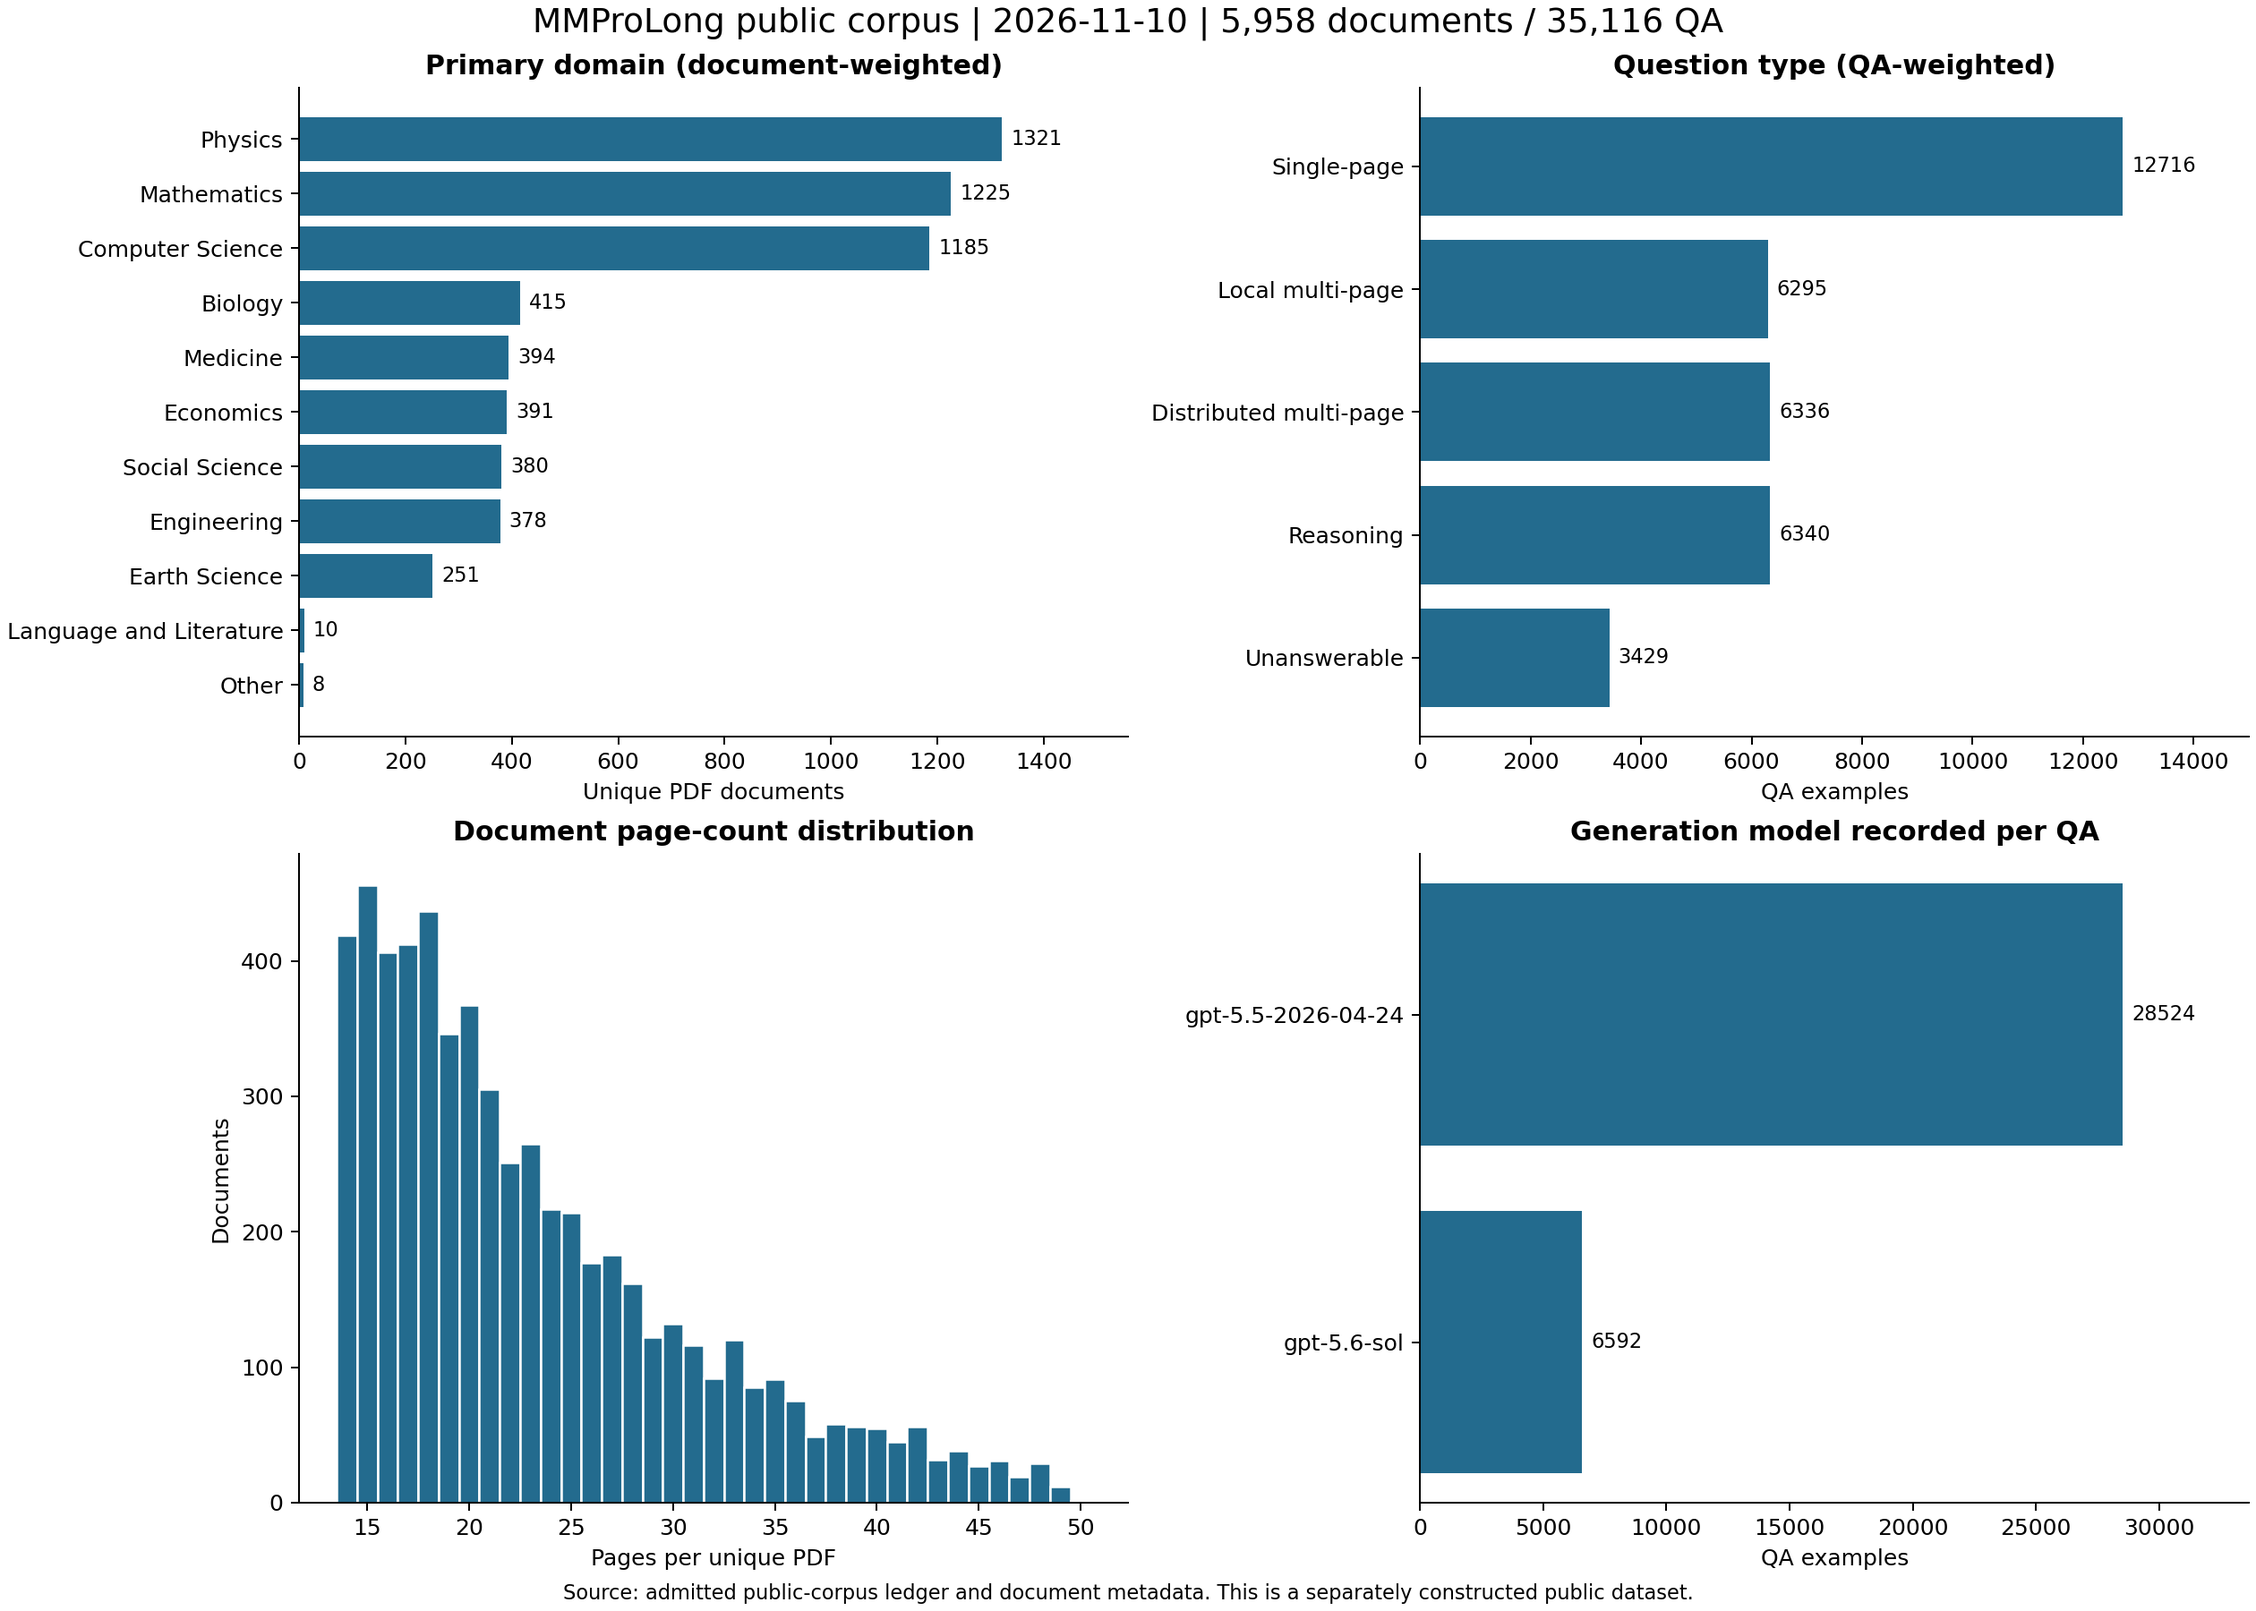
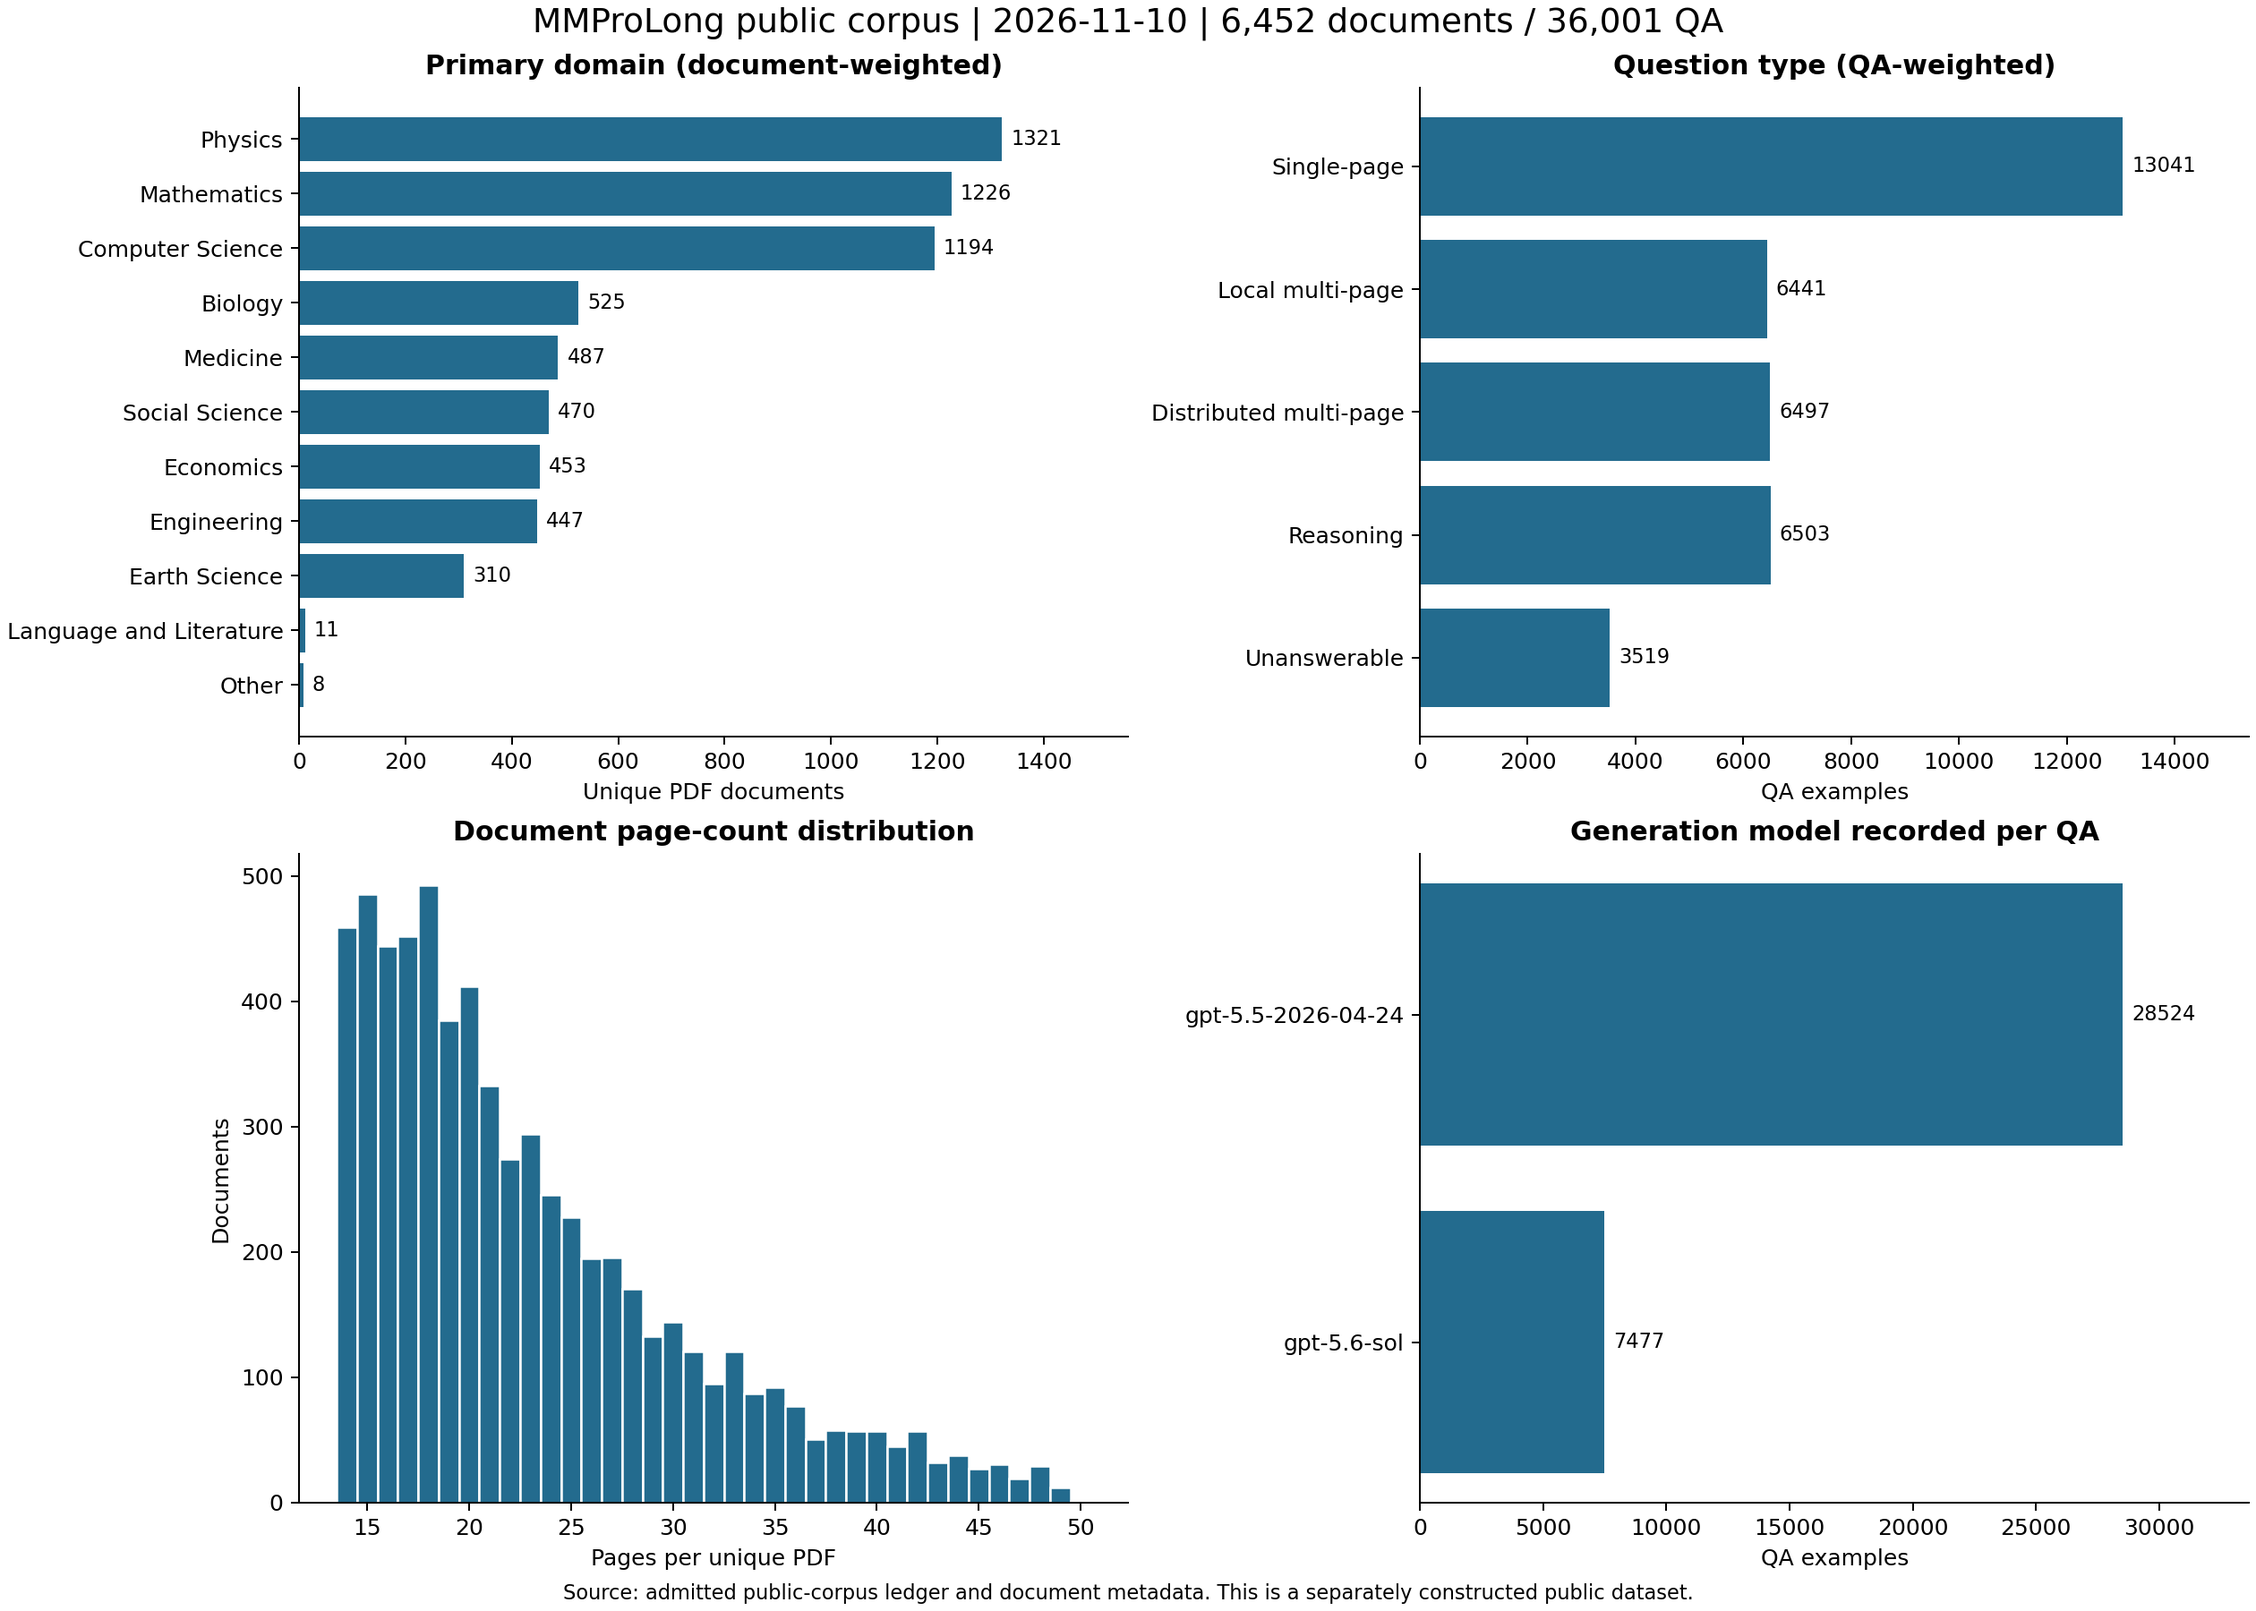
Update public corpus statistics to 2.173B measured tokens

diff --git a/docs/public_dataset.md b/docs/public_dataset.md
@@ -13,34 +13,34 @@ This page describes the admitted public snapshot identified below. It is a separ
 The manuscript defines binary prefixes (K=1024, B=2^30). Public tables use decimal K=1,000 and B=1,000,000,000; the >=100Ki statistic uses 102,400 to match the paper threshold. Exact raw counts and per-document labels are published with the dataset.
 
 <!-- PUBLIC_CORPUS_STATS_START -->
-**Public snapshot (2026-11-10): 35,116 QA examples, 5,958 source PDFs, 138,628 unique page images, and 2,126,922,250 estimated training tokens (approximately 2.127B).**
+**Public snapshot (2026-11-10): 36,001 QA examples, 6,452 source PDFs, 148,826 unique page images, and 2,173,240,659 estimated training tokens (approximately 2.173B).**
 
-[This published snapshot](https://huggingface.co/datasets/ZhaoweiWang/MMProLong-Data-Public/tree/95eb239c940a73c98132f70c6f63d94a16598ea4); [latest data](https://huggingface.co/datasets/ZhaoweiWang/MMProLong-Data-Public).
+[This published snapshot](https://huggingface.co/datasets/ZhaoweiWang/MMProLong-Data-Public/tree/17c37b6e12882da04af048143580f9ca9325c6bf); [latest data](https://huggingface.co/datasets/ZhaoweiWang/MMProLong-Data-Public).
 
 ### Corpus scale
 
 | Statistic | Public snapshot value |
 | --- | --- |
-| Admitted unique PDFs | 5,958 |
+| Admitted unique PDFs | 6,452 |
 | Document family | Public research papers |
-| Unique rendered page images | 138,628 |
-| Document pages: mean / median | 23.27 / 21 |
+| Unique rendered page images | 148,826 |
+| Document pages: mean / median | 23.07 / 21 |
 | Document pages: range / 5th-95th percentile | 14-50 / 14-40 |
-| Admitted QA examples | 35,116 |
-| Estimated training tokens | 2,126,922,250 (2.127B) |
-| Per-QA tokens: mean / median | 60.568K / 53.376K |
+| Admitted QA examples | 36,001 |
+| Estimated training tokens | 2,173,240,659 (2.173B) |
+| Per-QA tokens: mean / median | 60.366K / 53.338K |
 | Observed token range | 33,547-125,503 |
-| At least 100,000 tokens | 2,604 (7.42%) |
-| At least 100Ki = 102,400 tokens (paper threshold) | 2,188 (6.23%) |
-| Page references across all QA contexts | 837,149 |
+| At least 100,000 tokens | 2,609 (7.25%) |
+| At least 100Ki = 102,400 tokens (paper threshold) | 2,189 (6.08%) |
+| Page references across all QA contexts | 855,407 |
 
 ### Document sources
 
 | Source | Unique documents |
 | --- | --- |
 | arxiv | 4,386 |
-| elife | 17 |
-| plos | 1,555 |
+| elife | 20 |
+| plos | 2,046 |
 
 Tokens are the stored Qwen2.5-VL serialized-sample estimate, including full page-image context and QA/prompt text. A PDF used by several questions contributes its context repeatedly to the training-token total. This is not a count of unique-text tokens or billed API tokens. Page images are physically stored once per document.
 
@@ -50,12 +50,12 @@ Tokens are the stored Qwen2.5-VL serialized-sample estimate, including full page
 
 | Task | QA | Avg. pages | Avg. K tokens | B tokens | Pages | K-token range | >=100Ki |
 | --- | --- | --- | --- | --- | --- | --- | --- |
-| `single` | 12,716 | 23.72 | 60.23 | 0.766 | 14-50 | 33.80-125.13 | 6.18% |
-| `multi_local` | 6,295 | 23.87 | 60.73 | 0.382 | 14-50 | 33.85-125.50 | 6.16% |
-| `multi_distributed` | 6,336 | 23.77 | 60.44 | 0.383 | 14-50 | 33.84-125.29 | 6.23% |
-| `reasoning` | 6,340 | 23.79 | 60.41 | 0.383 | 14-50 | 33.55-125.11 | 5.95% |
-| `unanswerable` | 3,429 | 24.44 | 62.05 | 0.213 | 14-50 | 33.79-125.09 | 7.06% |
-| **Total** | 35,116 | 23.84 | 60.57 | 2.127 | 14-50 | 33.55-125.50 | 6.23% |
+| `single` | 13,041 | 23.63 | 60.02 | 0.783 | 14-50 | 33.80-125.13 | 6.03% |
+| `multi_local` | 6,441 | 23.82 | 60.60 | 0.390 | 14-50 | 33.85-125.50 | 6.04% |
+| `multi_distributed` | 6,497 | 23.70 | 60.24 | 0.391 | 14-50 | 33.84-125.29 | 6.08% |
+| `reasoning` | 6,503 | 23.70 | 60.18 | 0.391 | 14-50 | 33.55-125.11 | 5.80% |
+| `unanswerable` | 3,519 | 24.34 | 61.80 | 0.217 | 14-50 | 33.79-125.09 | 6.88% |
+| **Total** | 36,001 | 23.76 | 60.37 | 2.173 | 14-50 | 33.55-125.50 | 6.08% |
 
 `K = 1,000`, `B = 1,000,000,000`; `100Ki = 102,400` tokens. Average pages in this table are **QA-weighted**, whereas the corpus-scale document average counts each PDF once. The two multi-page rows may be combined for comparison with the paper's broader extraction category. Unanswerable QA is an additional public-data task. Exact values, quantiles, and the combined task grouping are in [`metadata/statistics.json`](https://huggingface.co/datasets/ZhaoweiWang/MMProLong-Data-Public/blob/main/metadata/statistics.json).
 
@@ -65,17 +65,17 @@ Tokens are the stored Qwen2.5-VL serialized-sample estimate, including full page
 
 | Primary domain | Documents | Document share | QA | QA share |
 | --- | --- | --- | --- | --- |
-| Physics | 1,321 | 22.17% | 9,282 | 26.43% |
-| Mathematics | 1,225 | 20.56% | 8,805 | 25.07% |
-| Computer Science | 1,185 | 19.89% | 9,040 | 25.74% |
-| Biology | 415 | 6.97% | 930 | 2.65% |
-| Medicine | 394 | 6.61% | 1,099 | 3.13% |
-| Economics | 391 | 6.56% | 1,209 | 3.44% |
-| Social Science | 380 | 6.38% | 1,182 | 3.37% |
-| Engineering | 378 | 6.34% | 2,690 | 7.66% |
-| Earth Science | 251 | 4.21% | 784 | 2.23% |
-| Language and Literature | 10 | 0.17% | 39 | 0.11% |
-| Other | 8 | 0.13% | 56 | 0.16% |
+| Physics | 1,321 | 20.47% | 9,282 | 25.78% |
+| Mathematics | 1,226 | 19.00% | 8,806 | 24.46% |
+| Computer Science | 1,194 | 18.51% | 9,055 | 25.15% |
+| Biology | 525 | 8.14% | 1,124 | 3.12% |
+| Medicine | 487 | 7.55% | 1,264 | 3.51% |
+| Social Science | 470 | 7.28% | 1,347 | 3.74% |
+| Economics | 453 | 7.02% | 1,319 | 3.66% |
+| Engineering | 447 | 6.93% | 2,815 | 7.82% |
+| Earth Science | 310 | 4.80% | 892 | 2.48% |
+| Language and Literature | 11 | 0.17% | 41 | 0.11% |
+| Other | 8 | 0.12% | 56 | 0.16% |
 
 Document and QA shares differ because historical phases generated different numbers of questions per PDF. Domain labels describe the source PDF, not a separate topic inferred for each question.
 
@@ -83,21 +83,21 @@ Document and QA shares differ because historical phases generated different numb
 
 | Answer format | QA | Share |
 | --- | --- | --- |
-| Integer | 5,306 | 15.11% |
-| Float | 1,964 | 5.59% |
-| List | 11,869 | 33.80% |
-| String | 12,548 | 35.73% |
-| Unanswerable | 3,429 | 9.76% |
+| Integer | 5,427 | 15.07% |
+| Float | 2,126 | 5.91% |
+| List | 12,205 | 33.90% |
+| String | 12,724 | 35.34% |
+| Unanswerable | 3,519 | 9.77% |
 
-There are **31,687 answerable** and **3,429 unanswerable** QA examples. The observed necessary-evidence page counts are: 0 pages: 3,429, 1 pages: 15,993, 2 pages: 10,524, 3 pages: 4,110, 4 pages: 1,055, 5 pages: 3, 6 pages: 1, 7 pages: 1.
+There are **32,482 answerable** and **3,519 unanswerable** QA examples. The observed necessary-evidence page counts are: 0 pages: 3,519, 1 pages: 16,397, 2 pages: 10,812, 3 pages: 4,184, 4 pages: 1,084, 5 pages: 3, 6 pages: 1, 7 pages: 1.
 
 <details>
 <summary>Observed QA count per source document</summary>
 
 | QA per document | Documents |
 | --- | --- |
-| 1 | 510 |
-| 2 | 3,041 |
+| 1 | 613 |
+| 2 | 3,432 |
 | 6 | 1 |
 | 8 | 1 |
 | 9 | 7 |
@@ -115,8 +115,8 @@ The 20-QA documents belong to the initial pilot; the two-QA limit applies to the
 | Recorded method | QA |
 | --- | --- |
 | legacy_full_document | 32,432 |
-| released_prompt_window_v1 | 1,674 |
-| document_tool_agent_v1 | 1,010 |
+| released_prompt_window_v1 | 2,227 |
+| document_tool_agent_v1 | 1,342 |
 
 ### Domain-label provenance
 
@@ -125,18 +125,18 @@ The 20-QA documents belong to the initial pilot; the two-QA limit applies to the
 | majority of full-context generator domain labels | 4,330 |
 | arXiv primary category mapping | 113 |
 | manual primary-topic classification for validated pilot batches | 9 |
-| majority of independent full-document verifier topic labels | 1,473 |
-| Crossref subject-query sampling; provisional until generator topic vote | 33 |
+| majority of independent full-document verifier topic labels | 1,948 |
+| Crossref subject-query sampling; provisional until generator topic vote | 52 |
 
 ## Document language
 
 | Estimated document language | Documents | Document share | Associated QA |
 | --- | --- | --- | --- |
-| English (`en`) | 5,953 | 99.916% | 35,076 |
-| Spanish (`es`) | 2 | 0.034% | 14 |
-| French (`fr`) | 1 | 0.017% | 2 |
-| Russian (`ru`) | 1 | 0.017% | 12 |
-| Chinese (`zh`) | 1 | 0.017% | 12 |
+| English (`en`) | 6,447 | 99.923% | 35,961 |
+| Spanish (`es`) | 2 | 0.031% | 14 |
+| French (`fr`) | 1 | 0.015% | 2 |
+| Russian (`ru`) | 1 | 0.015% | 12 |
+| Chinese (`zh`) | 1 | 0.015% | 12 |
 
 Language labels are automatic estimates from sampled embedded PDF text; non-English/uncertain predictions receive a prose-filter recheck. They are not human-verified. Method, sampled pages, scores and recheck provenance are retained with each document.
 
@@ -144,14 +144,14 @@ Language labels are automatic estimates from sampled embedded PDF text; non-Engl
 
 | Recorded generation model | Documents | QA | QA share | B training tokens |
 | --- | --- | --- | --- | --- |
-| `gpt-5.5-2026-04-24` | 2,407 | 28,524 | 81.23% | 1.745 |
-| `gpt-5.6-sol` | 3,551 | 6,592 | 18.77% | 0.382 |
+| `gpt-5.5-2026-04-24` | 2,407 | 28,524 | 79.23% | 1.745 |
+| `gpt-5.6-sol` | 4,045 | 7,477 | 20.77% | 0.429 |
 
 | Phase | Documents | QA | Maximum QA per document |
 | --- | --- | --- | --- |
 | Initial pilot (GPT-5.5) | 4 | 80 | 20 |
 | GPT-5.5 production | 2,403 | 28,444 | 12 |
-| Current GPT-5.6 production | 3,551 | 6,592 | 2 |
+| Current GPT-5.6 production | 4,045 | 7,477 | 2 |
 
 The current snapshot is a **mixed-model historical release**, not an all-GPT-5.6 corpus. Use the `model` field when a model-specific subset is required.
 

diff --git a/README.md b/README.md
@@ -40,7 +40,7 @@ Please check out the [paper](https://arxiv.org/abs/2605.13831) for the study and
 ## 📢 Latest Updates
 
 <!-- PUBLIC_CORPUS_SUMMARY_START -->
-**Public snapshot (2026-11-10): 35,116 QA examples, 5,958 source PDFs, 138,628 unique page images, and 2,126,922,250 estimated training tokens (approximately 2.127B).**
+**Public snapshot (2026-11-10): 36,001 QA examples, 6,452 source PDFs, 148,826 unique page images, and 2,173,240,659 estimated training tokens (approximately 2.173B).**
 
 [Dataset](https://huggingface.co/datasets/ZhaoweiWang/MMProLong-Data-Public) | [Statistics](docs/public_dataset.md)
 <!-- PUBLIC_CORPUS_SUMMARY_END -->
